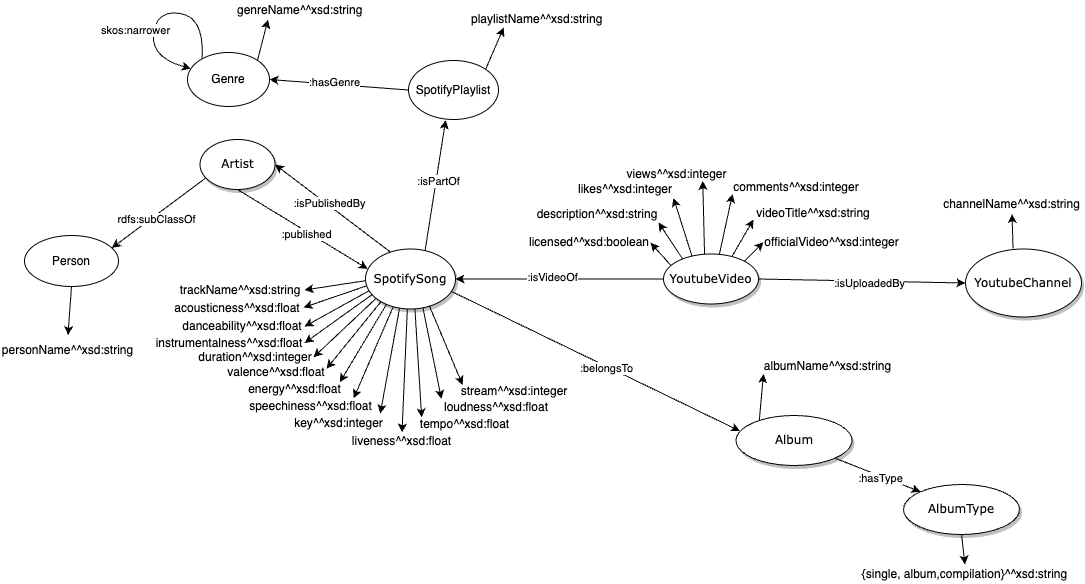
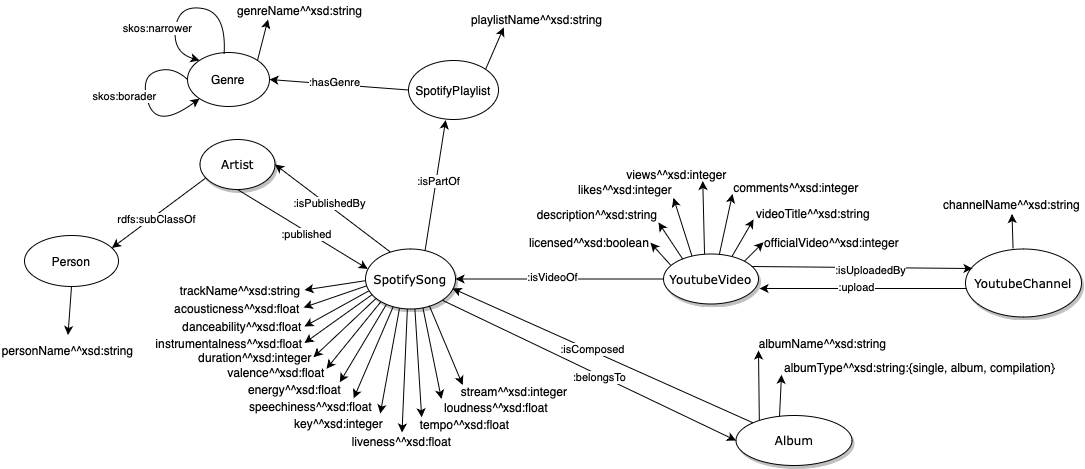
refactor of files + fix diagram

diff --git a/README.md b/README.md
@@ -4,44 +4,40 @@ This project consists of creating a RDF graph that stores informations about vir
 
 We first designed and created the ontology for the data using Protegè, then we created the RDF graph using RDFlib library for Python and we eventually wrote some queries that retrieve some useful/interesting data and statistics from the database.
 
-The following are the queries that we decided to create:
-...
-Francesco:
- 1 - Top 10 song by number of streams
- 2 - Song with max duration for each playlist, ordered by duration
- 3 - Artist that wrote more songs
- 4 - Artist that produced the most streams
-
-Andrea:
- 1 - First 10 channels by number of views, with also likes and comments
- 2 - The playlist with most song is the one with most streams?
- 3 - Correspondence between artist and genre (by number of songs in a playlist of such genre)
- 4 - Top genre based on something (genres of playlists with most played songs or most common genre among playlists)
-
-Gianluca:
- 1 - Random pair of songs that have similar tempo and key (useful for djs)
- 2 - Average number of views of songs for the 3 types of Album types
- 3 - Are n of streams of a song higher than the n of views of their related yt video (in general)?
- 4 - Average ratios of Views/Likes and Views/Comments of licensed and unlicensed YoutubeVideos
- 5 - Top 10 YoutubeChannel by average of views on the YoutubeVideos they uploaded, with total n of views, likes, comments, and streams of the corresponding SpotifySongs
-
-Insieme:
- 1 - Relazione tra visualizzazioni di un video e ascolti della corrispondente canzone su Spotify
-...
-
-
-
 Datasets:
 
 https://www.kaggle.com/datasets/salvatorerastelli/spotify-and-youtube
 
 https://www.kaggle.com/datasets/sujaykapadnis/spotify-songs
 
-The datasets (in the Datasets/Original folder) have been merged in a single file called complete_dataset.csv (in the Datasets/Computed folder). To create this file we created a python script called dataMergeScript.py in which we match the Spotify track ids of the songs and keep the information from both files.
-
-
 
 Info:
 
- - As number of streams we took the maximum value when there were multiple values for the same video
- - We still have to choose if we will take the union or the intersection of the datasets (probably union)
+ - Steps/order to generate the data to be imported in GraphDB:
+    1 run dataMergeScript.ipynb
+    2 run loadSYData.ipynb
+ - As number of streams we took the maximum value when there were multiple values for the same video. We generated top level genres and subgenres by looking at the names of all the genres.
+ - The datasets (in the Datasets/Original folder) have been merged in a single file called complete_dataset.csv (in the Datasets/Computed folder). To create this file we created a script called dataMergeScript.ipynb in which we match the Spotify track ids of the songs and keep the information from both files.
+ 
+
+The following are the queries that we decided to create:
+ 1 - Top 10 songs by number of streams  
+ 2 - Song with max duration for each playlist, ordered by duration  
+ 3 - Artist that published more songs  
+ 4 - Artist that produced the most streams  
+ 5 - Top 10 channels by number of views, with also likes and comments  
+ 6 - Is the playlist with most songs the one with most streams?  
+ 7 - Correspondence between artist and genre (by number of songs in a playlist of such genre)  
+ 8 - Most common 5 genres among playlists  
+ 9 - Genre of top 5 playlists with most played songs
+ 10 - Random pair of songs that have similar tempo and key (useful for djs)  
+ 11 - Average number of views of songs for the 3 types of album types (single, compilation and album)  
+ 12 - Are number of streams of a song higher than the number of views of their related youtube video (in general)?  
+ 13 - Average ratios of views/likes and views/comments of videos that are the official video of the songs and the ones that are not  
+ 14 - Top 10 channels by average of views on the videos they uploaded, with total number of views, likes, comments, and streams of the corresponding songs (simile alla 5, vedere quale tenere)  
+
+Insieme:
+ 1 - Relazione tra visualizzazioni di un video e ascolti della corrispondente canzone su Spotify
+...
+
+ 
